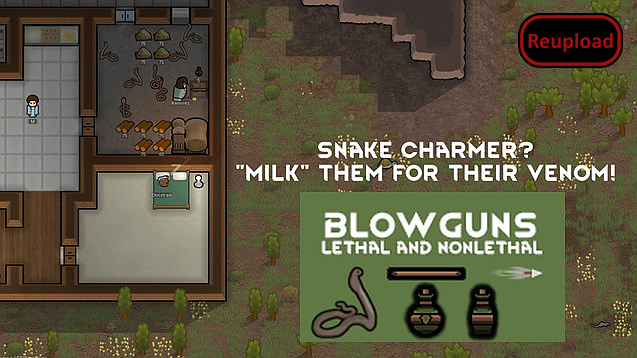
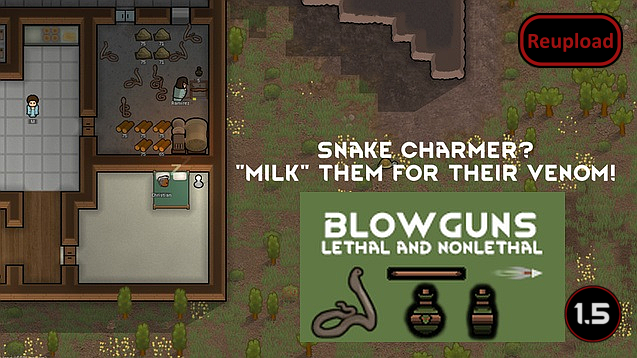
Mod updated for 1.5 and passed autotests

Changed region(s): [[0.865, 0.7989, 0.9843, 0.9832]]

diff --git a/Source/Blowguns/HediffGiver_ProgessiveBodySizeDependant.cs b/Source/Blowguns/HediffGiver_ProgessiveBodySizeDependant.cs
@@ -4,17 +4,16 @@ namespace Blowguns;
 
 public class HediffGiver_ProgessiveBodySizeDependant : HediffGiver
 {
+    public readonly float maxSeverityFactor = 1f;
+
+    public readonly float minSeverityFactor = 0f;
+
+    public readonly float severityPerDayRecovering = -1f;
+
+    public readonly float severityPerSeverityPerDay = 1f;
     public string dependantHediffDef;
 
-    public float maxSeverityFactor = 1f;
-
-    public float minSeverityFactor = 0f;
-
     public string partToAffect;
-
-    public float severityPerDayRecovering = -1f;
-
-    public float severityPerSeverityPerDay = 1f;
 
     public override void OnIntervalPassed(Pawn pawn, Hediff cause)
     {
@@ -27,8 +26,8 @@ public class HediffGiver_ProgessiveBodySizeDependant : HediffGiver
             var severity = firstHediffOfDef.Severity;
             var bodySize = pawn.BodySize;
             var sevOffset2 = severity * num / bodySize;
-            var num2 = minSeverityFactor * bodySize;
-            var num3 = maxSeverityFactor * firstHediffOfDef.Severity / bodySize;
+            var minSeverity = minSeverityFactor * bodySize;
+            var maxSeverity = maxSeverityFactor * firstHediffOfDef.Severity / bodySize;
             if (!pawn.Dead && hediffSet.HasHediff(HediffDef.Named(dependantHediffDef)) &&
                 !hediffSet.HasHediff(hediff))
             {
@@ -43,7 +42,7 @@ public class HediffGiver_ProgessiveBodySizeDependant : HediffGiver
                 }
 
                 var firstHediffOfDef2 = hediffSet.GetFirstHediffOfDef(hediff);
-                if (firstHediffOfDef.Severity > num2 && firstHediffOfDef2.Severity <= num3)
+                if (firstHediffOfDef.Severity > minSeverity && firstHediffOfDef2.Severity <= maxSeverity)
                 {
                     HealthUtility_ProgessiveBodySizeDependant.AdjustSeverityPerSeverity(pawn, hediff,
                         sevOffset2, partToAffect);

diff --git a/README.md b/README.md
@@ -113,12 +113,13 @@ gretino
 
 -  See if the the error persists if you just have this mod and its requirements active.
 -  If not, try adding your other mods until it happens again.
--  Post your error-log using https://steamcommunity.com/workshop/filedetails/?id=818773962]HugsLib and command Ctrl+F12
+-  Post your error-log using https://steamcommunity.com/workshop/filedetails/?id=818773962]HugsLib or the standalone https://steamcommunity.com/sharedfiles/filedetails/?id=2873415404]Uploader and command Ctrl+F12
 -  For best support, please use the Discord-channel for error-reporting.
 -  Do not report errors by making a discussion-thread, I get no notification of that.
 -  If you have the solution for a problem, please post it to the GitHub repository.
+-  Use https://github.com/RimSort/RimSort/releases/latest]RimSort to sort your mods
 
 
 
+https://steamcommunity.com/sharedfiles/filedetails/changelog/2054636901]![Image](https://img.shields.io/github/v/release/emipa606/Blowguns?label=latest%20version&style=plastic&color=9f1111&labelColor=black)
 
-https://steamcommunity.com/sharedfiles/filedetails/changelog/2054636901]Last updated 2022-12-06
